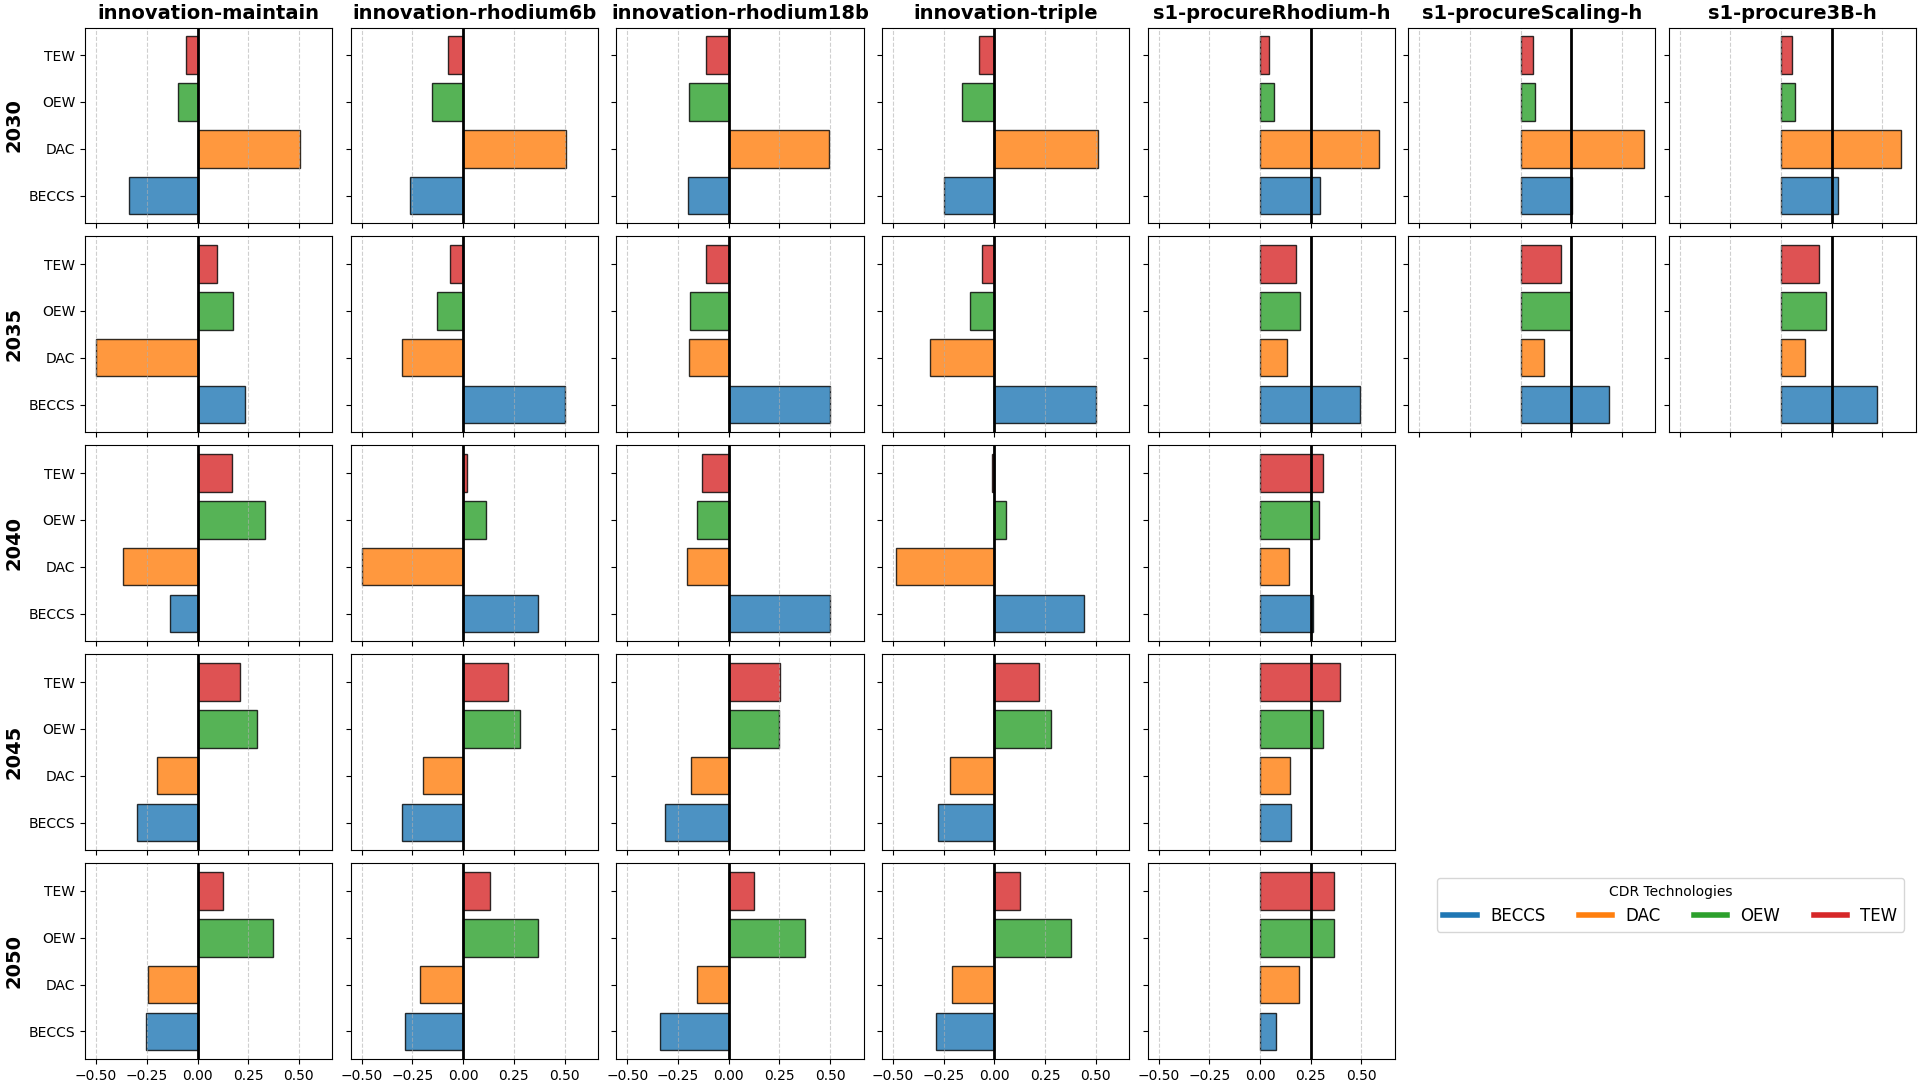
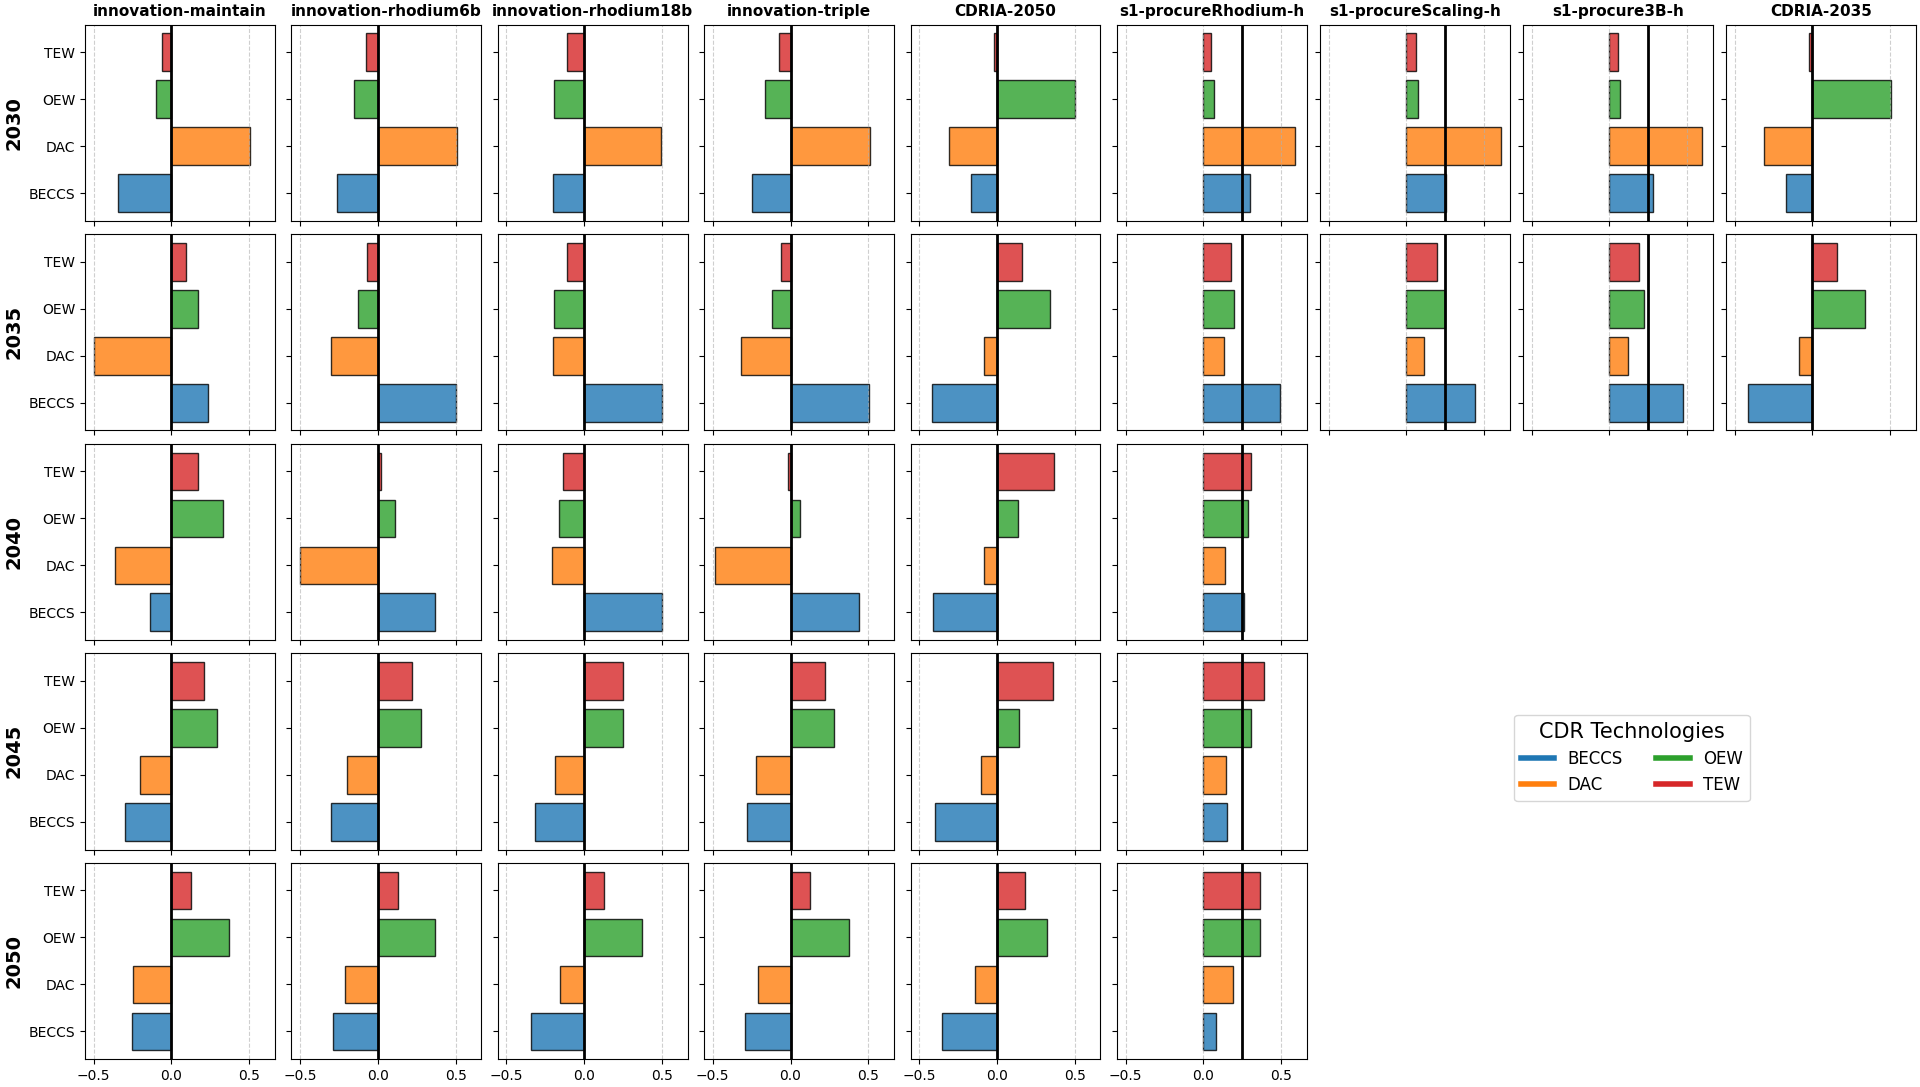
add some more scenarios to the tech-neutral plot (making it hard to read)

diff --git a/supplementary_figures.py b/supplementary_figures.py
@@ -15,17 +15,17 @@ def main(config_fname, reference_year):
     """
     config_fname = config_fname.replace("_", "/")
     os.makedirs("./data/data_analysis/images/" + config_fname + "/", exist_ok=True)
-    marginal_supply()
+    # marginal_supply()
     tech_neutrality()
-    compare_policy_costs("CDRIA-2035_high", "45Q-2040_high")
-    CAGR(config_fname, "2050")
-    land_allocation(config_fname, "2050")
-    cement(config_fname, "2050")
-    electricity(config_fname, "2050")
-    state_CDR(config_fname, "2050")
-    C_tax(config_fname, reference_year)
-    C_prices(config_fname, reference_year)
-    CDR_subsidies(config_fname, "2035", "2040")
+    # compare_policy_costs("CDRIA-2035_high", "45Q-2040_high")
+    # CAGR(config_fname, "2050")
+    # land_allocation(config_fname, "2050")
+    # cement(config_fname, "2050")
+    # electricity(config_fname, "2050")
+    # state_CDR(config_fname, "2050")
+    # C_tax(config_fname, reference_year)
+    # C_prices(config_fname, reference_year)
+    # CDR_subsidies(config_fname, "2035", "2040")
 
 
 def marginal_supply():
@@ -188,9 +188,11 @@ def tech_neutrality():
                  "innovation-rhodium18b_low", "innovation-triple_low",
                  "innovation-maintain_high", "innovation-rhodium6b_high",
                  "innovation-rhodium18b_high", "innovation-triple_high",
+                 "CDRIA-2050_low", "CDRIA-2050_high",
                  "s1-procureRhodium-l_low","s1-procureRhodium-h_high",
                  "s1-procureScaling-l_low", "s1-procure3B-l_low",
-                 "s1-procureScaling-h_high", "s1-procure3B-h_high"]
+                 "s1-procureScaling-h_high", "s1-procure3B-h_high",
+                 "CDRIA-2035_low", "CDRIA-2035_high"]
 
     # get CDR data
     all_data = pd.DataFrame()
@@ -233,14 +235,18 @@ def tech_neutrality():
     CDR.loc[CDR['scenario'] == 's1-procureScaling-h', '2040'] = np.nan
     CDR.loc[CDR['scenario'] == 's1-procure3B-l', '2040'] = np.nan
     CDR.loc[CDR['scenario'] == 's1-procure3B-h', '2040'] = np.nan
+    CDR.loc[CDR['scenario'] == 'CDRIA-2035', '2040'] = np.nan
     CDR.loc[CDR['scenario'] == 's1-procureScaling-l', '2045'] = np.nan
     CDR.loc[CDR['scenario'] == 's1-procureScaling-h', '2045'] = np.nan
     CDR.loc[CDR['scenario'] == 's1-procure3B-l', '2045'] = np.nan
     CDR.loc[CDR['scenario'] == 's1-procure3B-h', '2045'] = np.nan
+    CDR.loc[CDR['scenario'] == 'CDRIA-2035', '2045'] = np.nan
     CDR.loc[CDR['scenario'] == 's1-procureScaling-l', '2050'] = np.nan
     CDR.loc[CDR['scenario'] == 's1-procureScaling-h', '2050'] = np.nan
+    CDR.loc[CDR['scenario'] == 'CDRIA-2035', '2050'] = np.nan
     CDR.loc[CDR['scenario'] == 's1-procure3B-l', '2050'] = np.nan
     CDR.loc[CDR['scenario'] == 's1-procure3B-h', '2050'] = np.nan
+
 
     for baseline in ["low", "high"]:
         CDR_baseline = CDR[CDR["baseline"] == baseline]
@@ -262,7 +268,7 @@ def tech_neutrality():
                     product_totals = scenario_df.groupby('product')[str(year)].sum().reindex(products).fillna(0)
                     bars = ax.barh(products, product_totals, color=colors, edgecolor='black', alpha=0.8)
 
-                    v_line_pos = 0 if "innovation" in scenario_name else 0.25
+                    v_line_pos = 0 if "innovation" in scenario_name or "CDRIA" in scenario_name else 0.25
                     ax.axvline(x=v_line_pos, color='black', linestyle='-', linewidth=2, label='Tech-Neutral Target')
 
                     # label only certain subplots
@@ -270,7 +276,7 @@ def tech_neutrality():
                         ax.set_ylabel(f"{year}", fontweight='bold', fontsize=14)
 
                     if col_idx == 0:
-                        ax.set_title(f"{scenario_name}", fontsize=14, fontweight='bold')
+                        ax.set_title(f"{scenario_name}", fontsize=11, fontweight='bold')
 
                     ax.grid(axis='x', linestyle='--', alpha=0.6)
                 else:
@@ -280,7 +286,7 @@ def tech_neutrality():
         # add a single legend
         legend_elements = [Line2D([0], [0], color=colors[i], lw=4, label=p) for i, p in enumerate(products)]
         fig.legend(handles=legend_elements, title="CDR Technologies", loc='upper center',
-                   bbox_to_anchor=(0.87, 0.2), ncol=4, fontsize=12)
+                   bbox_to_anchor=(0.85, 0.35), ncol=2, title_fontsize=15, fontsize=12)
         plt.savefig(f"data/data_analysis/images/CDR-Technologies-{baseline}.png", dpi=300)
         plt.show()
 
